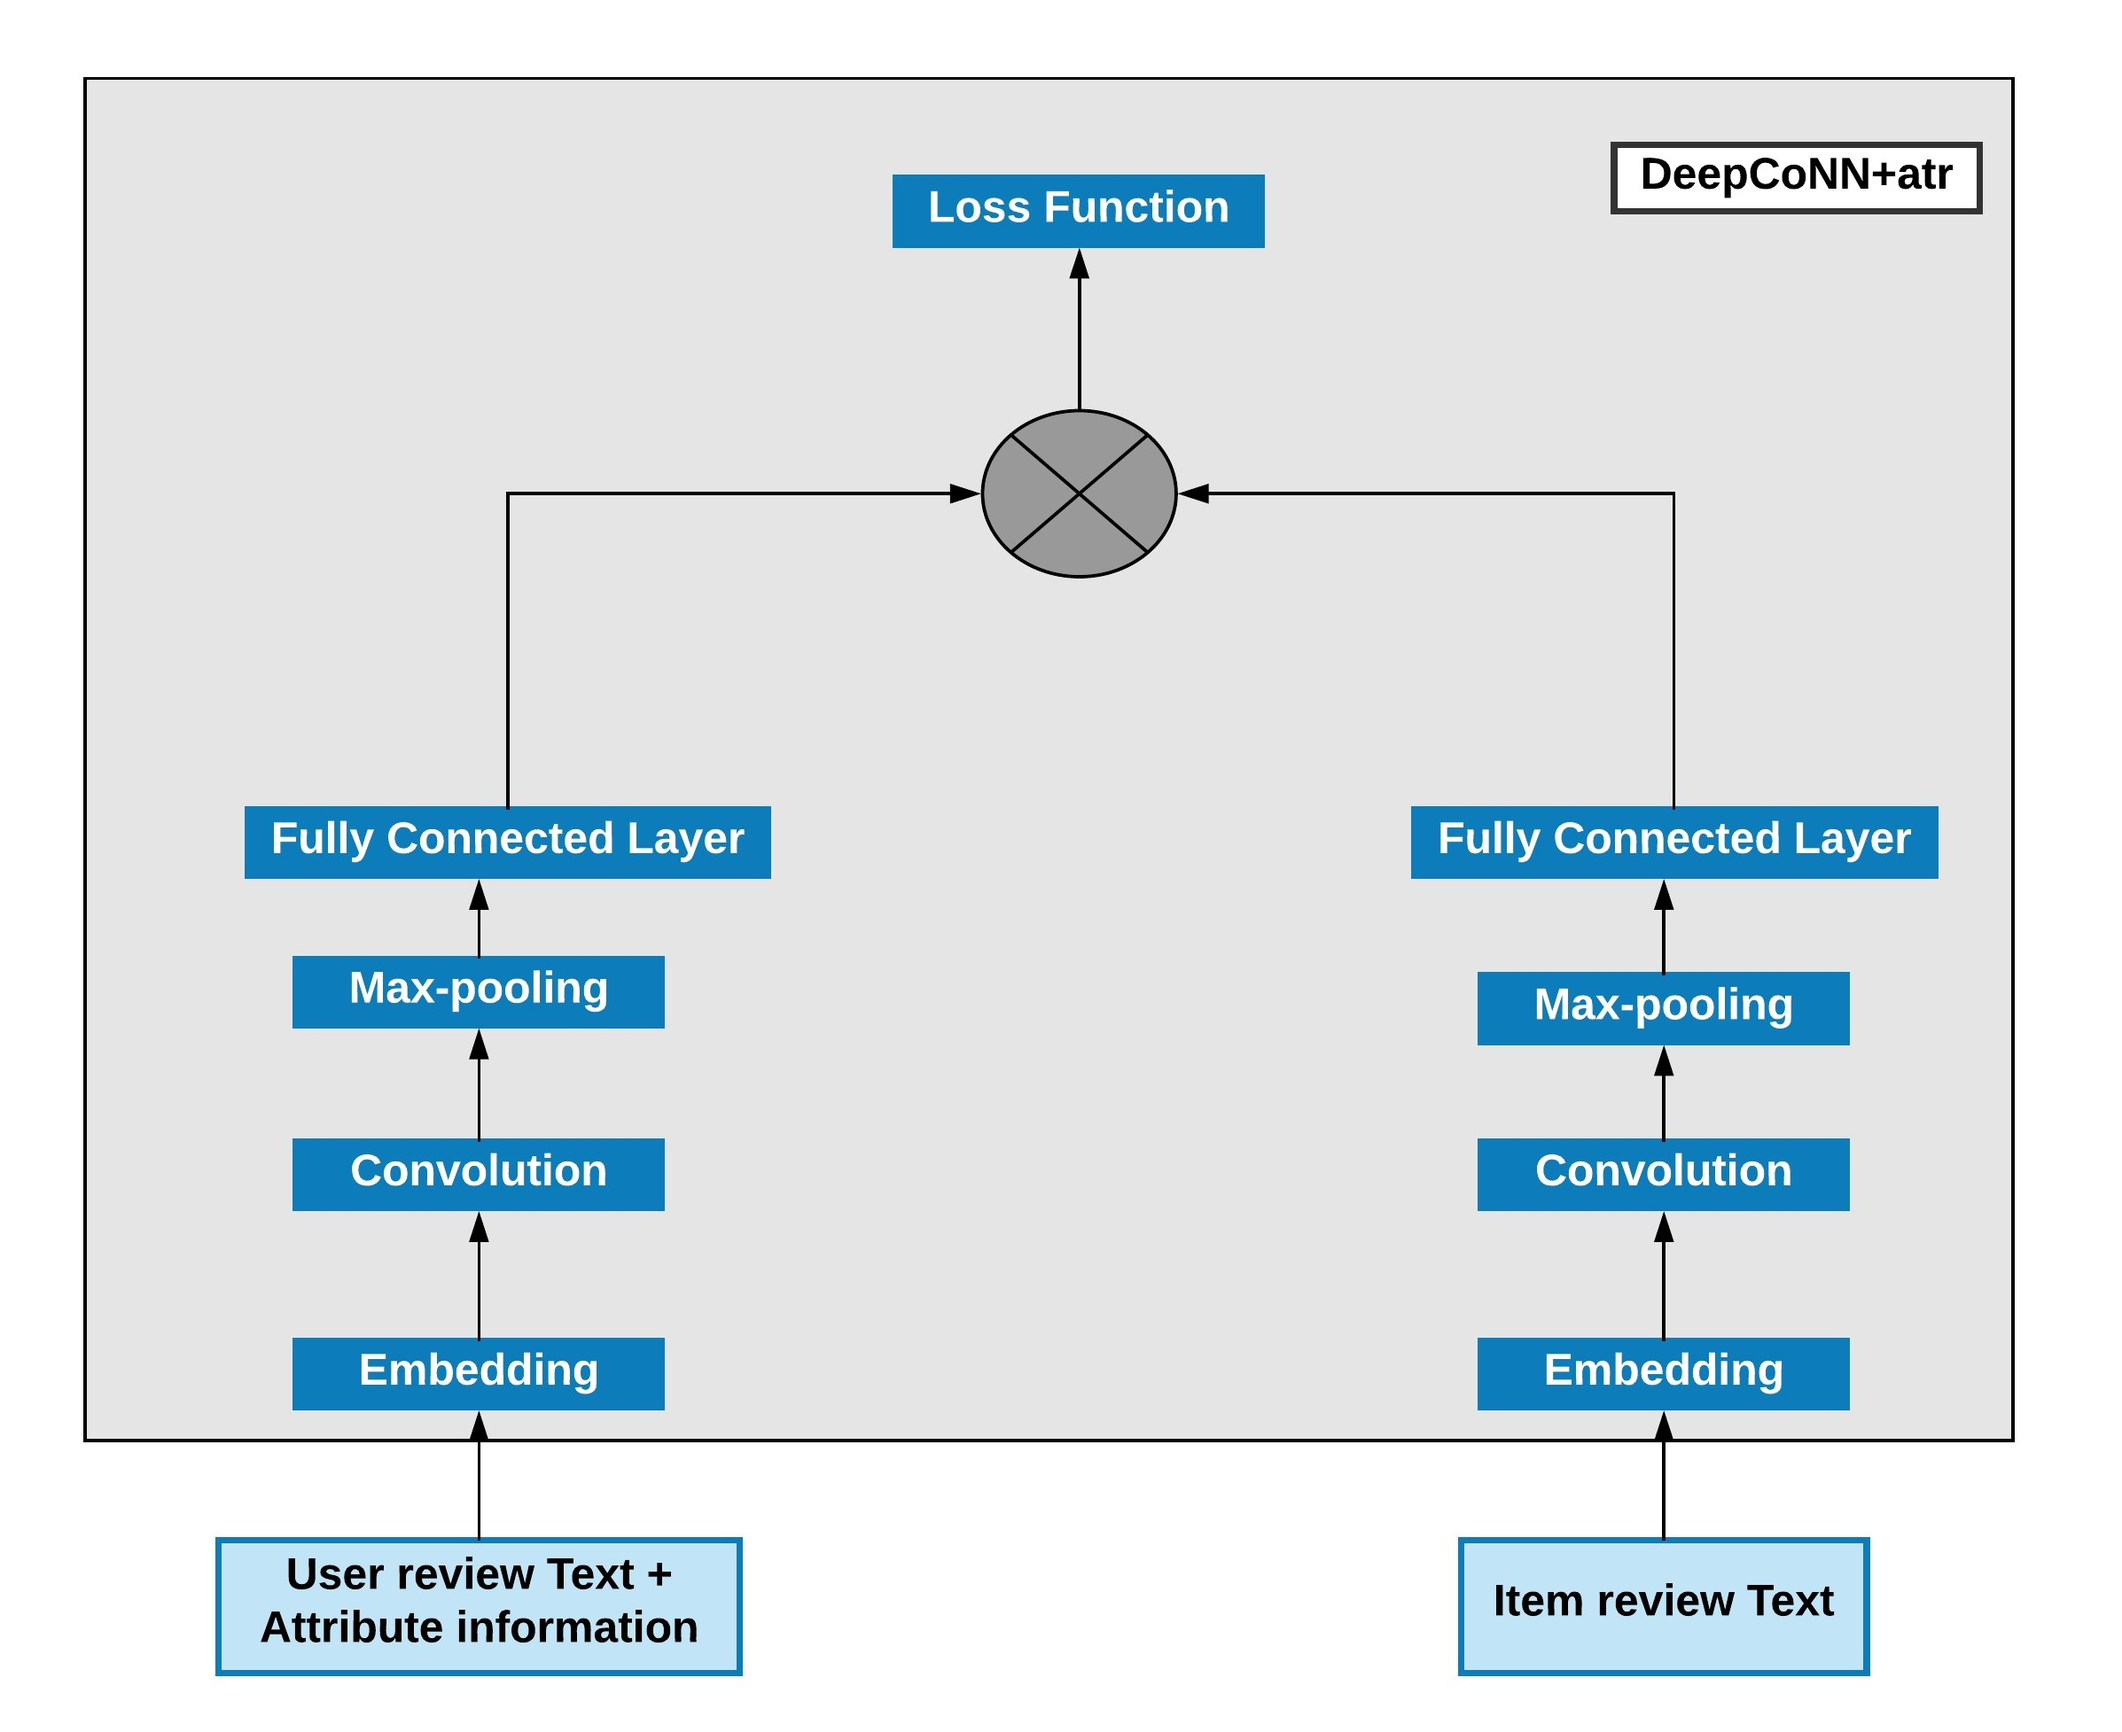
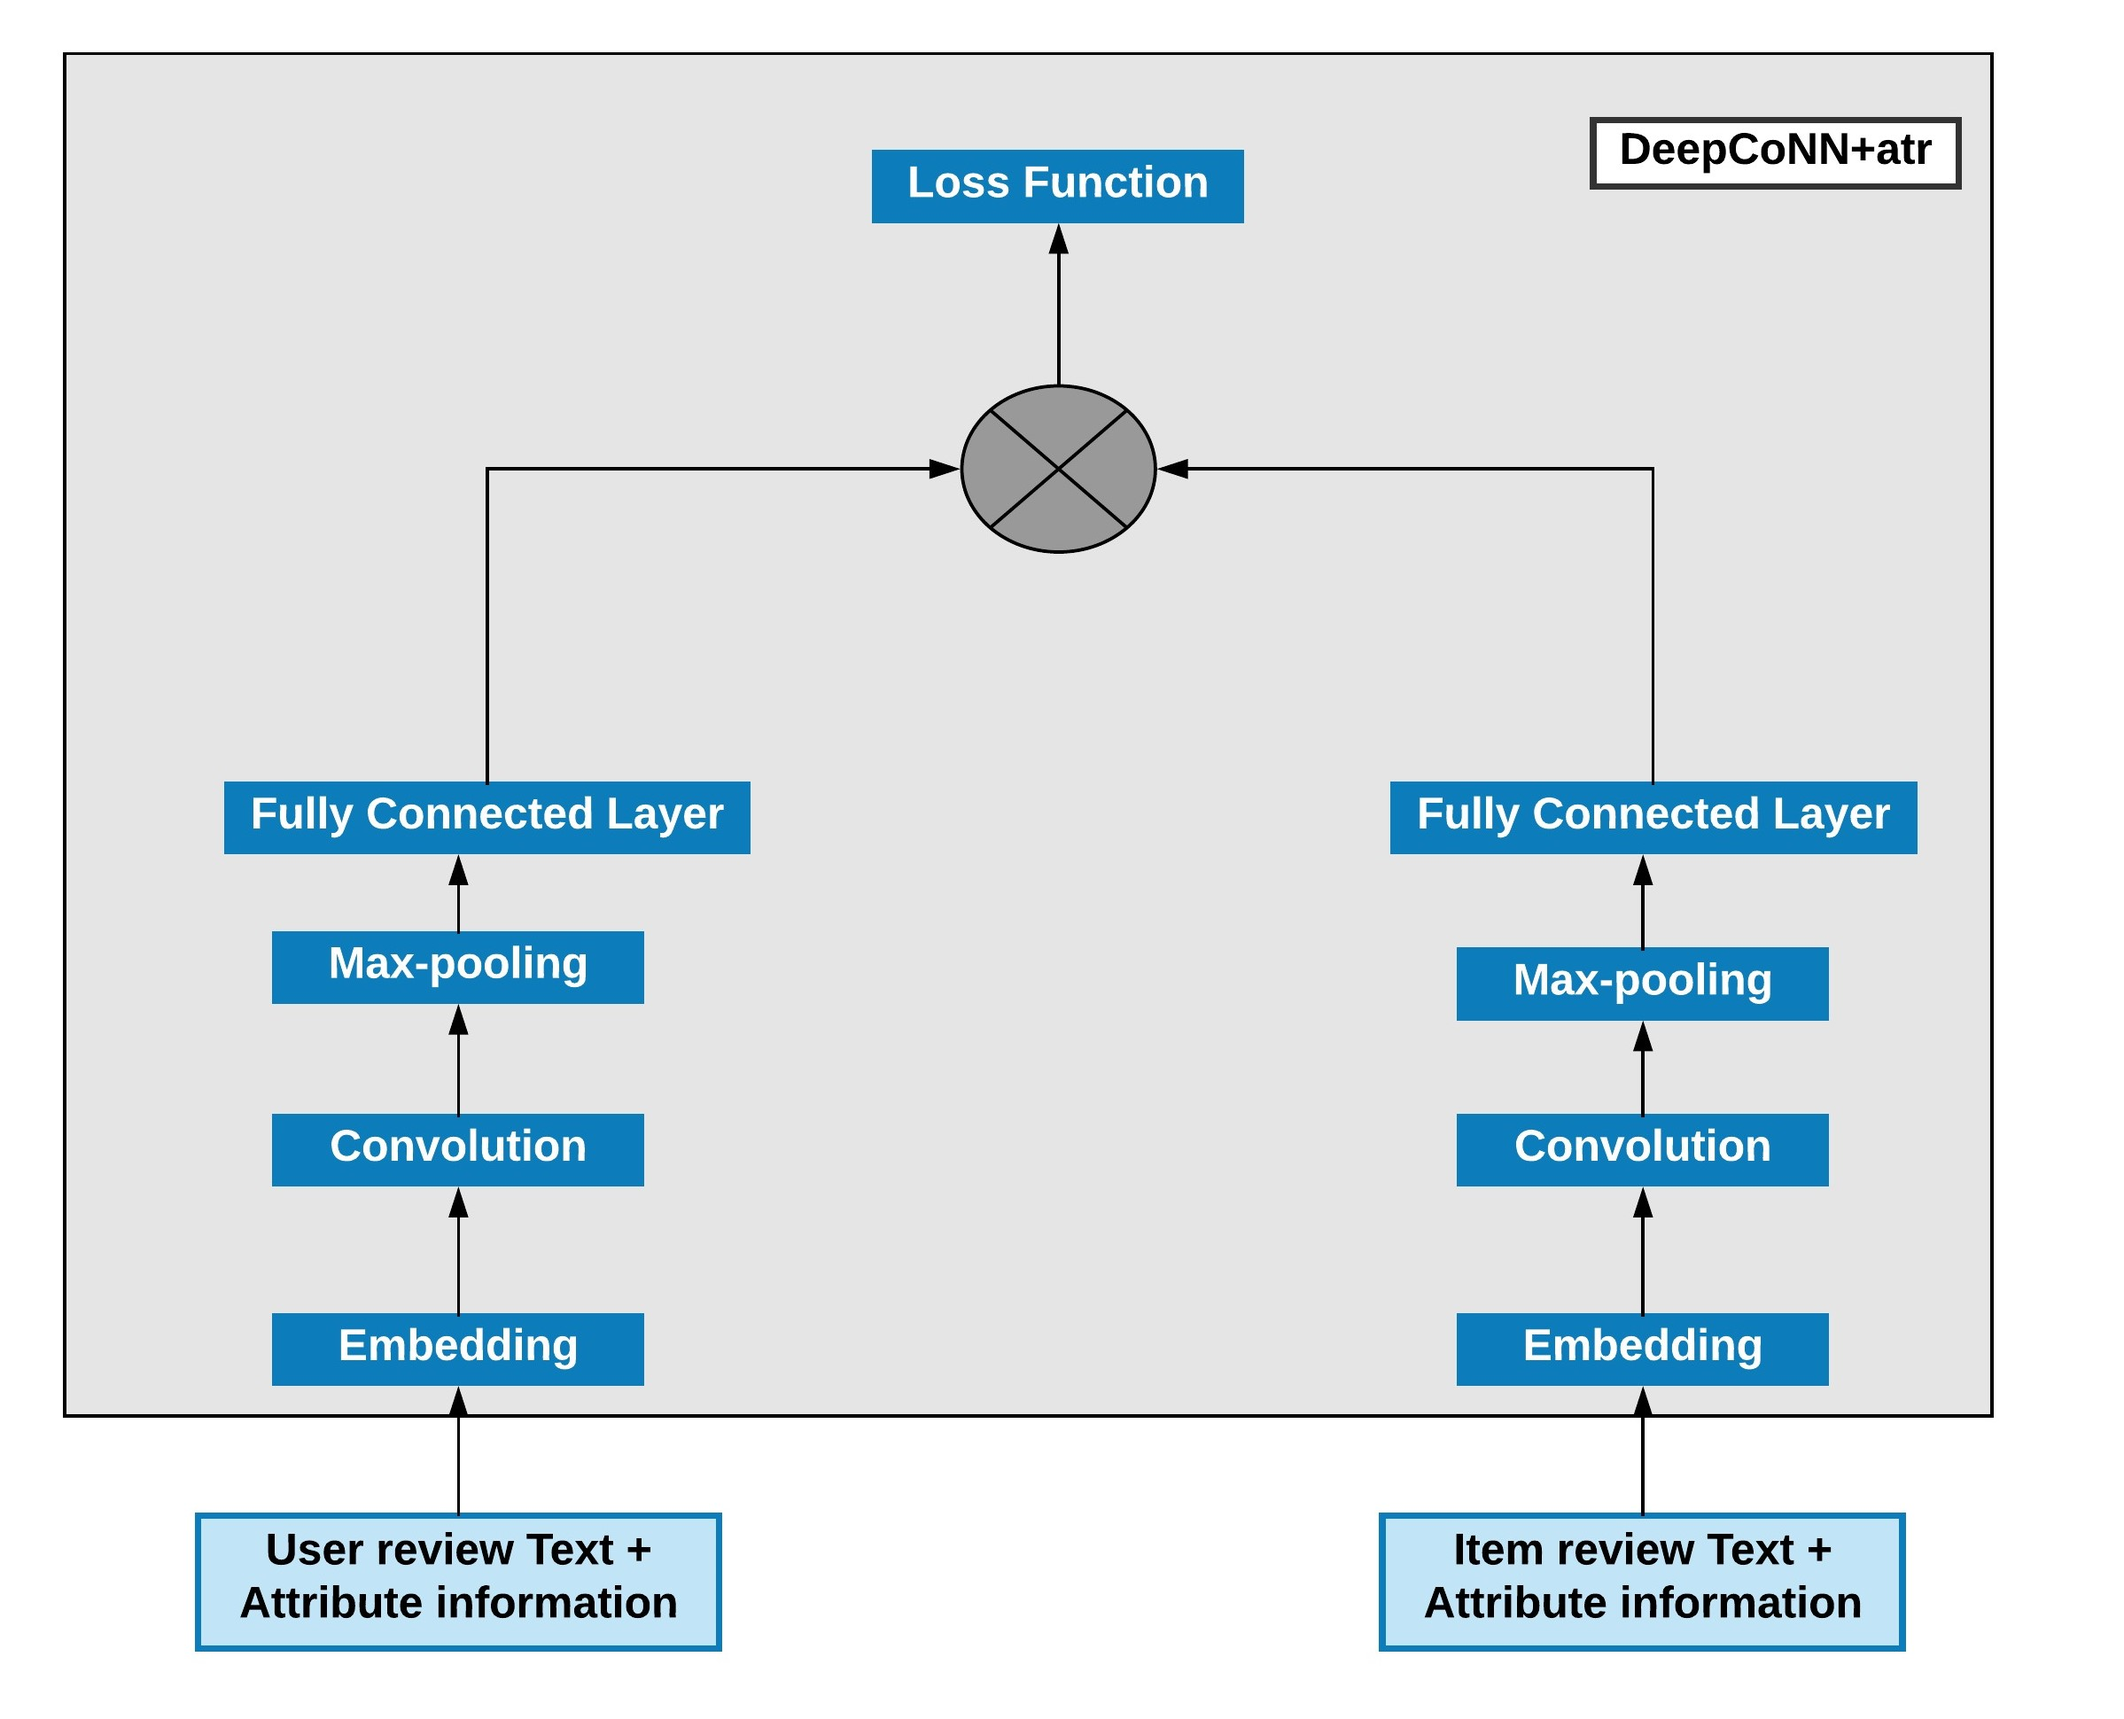
FInal Changes to Website

Changed region(s): [[0.0309, 0.0309, 0.9582, 0.9897], [0.0927, 0.866, 0.3709, 0.9897], [0.7728, 0.2784, 0.8037, 0.3093]]

diff --git a/index.html b/index.html
@@ -63,6 +63,12 @@
           <li class="nav-item">
             <a class="nav-link js-scroll-trigger" href="#network_embeddings" style="text-transform:none" >Network Embeddings</a>
           </li>
+           <li class="nav-item">
+            <a class="nav-link js-scroll-trigger" href="#future_work" style="text-transform:none" >Future Work</a>
+          </li>
+          <li class="nav-item">
+            <a class="nav-link js-scroll-trigger" href="#references" style="text-transform:none" >References</a>
+          </li>
         </ul>
       </div>
     </nav>
@@ -101,15 +107,26 @@
               <p>Many of the world's recommender systems are based on collaborative filtering techniques.<br/>
          	  The basic idea of these techniques is that people who share similar preferences in the past tend to have similar choices in the future.<br/>
          	  But Collaborative Filtering techniques have a sparsity problem in that the number of items rated by users is insignificant to the total number of items.<br/>
-         	  <b> We aim to reduce the sparsity problem and improve the quality of recommendations</b><br/></p>
-         	  <p> We are using Yelp Dataset in this scenario to showcase our methods against methods like matrix factorization as Yelp dataset is very sparse and traditional methods like matrix factorization involves lots of computation when it comes to sparse dataset</p>
+         	   We aim to reduce the sparsity problem and improve the quality of recommendations<br/></p>
+         	  <p> We are using Yelp Dataset in this scenario to showcase our methods against methods like matrix factorization as Yelp dataset is very sparse and traditional methods like matrix factorization involves lots of computation when it comes to sparse dataset
+
+         	  The current techniques in recommender systems use collaborative filtering, content based filtering or hybrid methods on ratings explicitly given by the users to each item. But such systems are not robust to problems due to sparsity in the ratings data.<br/> It has been shown that reviews written by users can reveal some information on the customers’ buying and rating behavior, and also reviews written for items may contain information on their features and properties.<br/> So we believe that a large amount of information exists in reviews written by users. This source of information has been ignored by most of the current recommender systems while it can potentially alleviate the sparsity problem and improve the quality of recommendations.<br/> In Jan 2017, Lei et. al. have proposed a deep model (DeepCoNN) to learn item properties and user behaviors jointly from review text. But we noticed that they have completely neglected other user/item profile specific attribute information. 
+
+
+
+
+
+
+
+
+         	  </p>
             </div>
           </div>
           </div>
           <div class="resume-item d-flex flex-column flex-md-row mb-5">
             <div class="resume-content mr-auto">
              <div class="row">
-              <h3 class="mb-0">HOW ??</h3>
+          
               </div>
               <div class="row">
               <p>Consider the Yelp Dataset<br/></p>
@@ -262,7 +279,49 @@ Lei Zheng, Vahid Noroozi, Philip S. Yu</li>
               			</img>
               		</div>
               	</div>
-              	</div>
+            <ul> 	
+            <div class="row">
+            <li>In this work, we have proposed and evaluated two recommender systems, first, we have used the same DeepCoNN model but appended user and item attributes into the reviews of each user or item to train the model and the second model (RecCoNN) which uses the additional attribute information (user profile specific) and trains two parallel neural networks coupled in the last layers.</li>
+            </div>
+            <div class="row">
+            <li>One of the networks focuses on learning user behaviors exploiting reviews written by the user, considering additional user profile features, and the other network learns item properties from the reviews written for the item.</li>
+            </div>
+
+            <div class="row">
+            <li>The following attributes are used in RecCoNN: Alcohol, OutdoorSeating, RestaurantsDelivery, RestaurantsTakeOut, BusinessParking/Valet and the cuisine data for profiling users. </li>
+            </div>
+
+            <div class="row">
+            <li> Later, a shared layer is introduced on the top to couple these two networks together. The shared layer enables latent factors learned for users and items to interact with each other to map them to a common feature space.</li>
+            </div>
+
+            <div class="row">
+            <li>Similar to MF techniques, user and item latent factors can effectively interact with each other to predict the corresponding rating. Experimental results demonstrate that RecCoNN outperforms our baseline system DeepCoNN on Yelp dataset.</li>
+            </div>
+
+            <div class="row">
+            <li>We used Word2vec pretrained on GoogleNews(300 d) and also Glove embeddings(100 d). Furthermore, we found that word embedding could be helpful to capture semantic meaning of review text by comparing it with a variant of RecCoNN bag-of-words or TF-IDF representations for reviews. </li>
+            </div>
+
+            <div class="row">
+            <li> At last, we conducted experiments by sampling the Yelp data with respect to the US states and investigated the impact of the number of reviews. We have used sampling because of the lack of computational resources.</li>
+            </div>
+
+            <div class="row">
+            <h3 class="mb-5">Discussions</h3>
+            </div>
+
+            <div class="row">
+            <li>Experimental results showed that, RecCoNN obtains more reduction in MSE than DeepCoNN.</li>
+            </div>
+
+            <div class="row">
+            <li>It validates that RecCoNN can effectively alleviate the sparsity problem and also outperform DeepCoNN with the help of additional Attribute information.</li>
+            </div>
+            <div class="row">
+            <li>Each US state data trained separately provides 30% improvement in RMSE compared to full data. This proves the impact of localization of the review data and we plan to incorporate location of the restaurants in our training.</li>
+            </div>
+     		</div>
           </div>
       </section>
 
@@ -272,16 +331,72 @@ Lei Zheng, Vahid Noroozi, Philip S. Yu</li>
           <div class="row"><h2 class="mb-5">Results</h2></div>
           <div class="table-responsive">          
   			   <table class="table">
+  			   <caption><center><b>Mean Absolute Error (MAE)</b></center></caption>
   			   <thead>
   			   <tr>
   			   <th>#</th>
-  			   <th>DeepConn</th>
+  			   <th>Baseline(DeepConn)</th>
   			   <th>DeepConn+attr</th>
   			   <th>RecCoNN</th>
   			   </tr>
   			   </thead>
+  			   <tr>
+  			   <td>Arizona</td>
+  			   <td><b>0.9374</b></td>
+  			   <td>0.9917</td>
+  			   <td>0.9502</td>
+  			   </tr>
+  			   <tr>
+  			   <td>North Carolina</td>
+  			   <td>0.8495</td>
+  			   <td>0.8706</td>
+  			   <td><b>0.8475</b></td>
+  			   </tr>
+  			   <tr>
+  			   <td>Pennsylvania</td>
+  			   <td>0.8252</td>
+  			   <td>0.8263</td>
+  			   <td><b>0.8232</b></td>
+  			   </tr>
+  			   
   			   </table>
-  		  </div>		   
+  		  </div>		 
+
+
+  		  <div class="table-responsive">          
+  			   <table class="table">
+  			   <caption><center><b>Root Mean Square Error (RMSE)</b></center></caption>
+  			   <thead>
+  			   <tr>
+  			   <th>#</th>
+  			   <th>Baseline(DeepConn)</th>
+  			   <th>DeepConn+attr</th>
+  			   <th>RecCoNN</th>
+  			   </tr>
+  			   </thead>
+  			   <tr>
+  			   <td>Arizona</td>
+  			   <td>1.1831</td>
+  			   <td>1.204</td>
+  			   <td><b>1.181</b></td>
+  			   </tr>
+  			   <tr>
+  			   <td>North Carolina</td>
+  			   <td><b>1.0872</b></td>
+  			   <td>1.12</td>
+  			   <td>1.0929</td>
+  			   </tr>
+  			   <tr>
+  			   <td>Pennsylvania</td>
+  			   <td>1.0625</td>
+  			   <td>1.0578</td>
+  			   <td><b>1.0502</b></td>
+  			   </tr>
+  			   
+  			   </table>
+  		  </div>
+
+
         </div>
         </div>
       </section>
@@ -427,17 +542,80 @@ Based on visualizations we observed that Yelp essentially has two classes of use
               		</div>
               	</div>
 
-              	<div class="row">
-              		<h2 class="mb-5">Future Work</h2>
-              	</div>
-              	<div class="row">
-              	<p>To embed HINs, we would like to use a random walk strategy to generate meaningful node sequences for network embedding. We characterize nodes from HINs with low-dimensional vectors, i.e., embeddings. Instead of relying on explicit path connection, we would like to encode useful information from HINs with latent vectors. The learned node embeddings are first transformed by a set of fusion functions and once we obtain the representations for user u and item i, we would like to integrate them to our RecCoNN model.</p>
-              	</div>
-
+              	
              </div>
           </div>
       </section>
     </div>
+
+<section class="resume-section p-3 p-lg-5 d-flex flex-column" id="future_work">
+        <div class="my-auto">
+        	<div class="container-fluid">
+    			<div class="row">
+              		<h2 class="mb-5">Future Work</h2>
+    			</div>
+              	<div class="row">
+              		<p>To embed HINs, we would like to use a random walk strategy to generate meaningful node sequences for network embedding. We characterize nodes from HINs with low-dimensional vectors, i.e., embeddings. Instead of relying on explicit path connection, we would like to encode useful information from HINs with latent vectors. The learned node embeddings are first transformed by a set of fusion functions and once we obtain the representations for user u and item i, we would like to integrate them to our RecCoNN model.</p>
+              	</div>
+            </div>
+        </div>
+    </section>
+
+
+<section class="resume-section p-3 p-lg-5 d-flex flex-column" id="references">
+        <div class="my-auto">
+        	<div class="container-fluid">
+    			<div class="row">
+              		<h2 class="mb-5">References</h2>
+    			</div>
+    			<ul>
+              	<div class="row">
+              		<li>L. Zheng, V. Noroozi, and P. S. Yu. Joint deep modeling of
+users and items using reviews for recommendation. CoRR,
+abs/1701.04783, 2017.</li>
+              	</div>
+              	<div class="row">
+              	<li>
+              	Chuan Shi, Member, IEEE, Binbin Hu, Wayne Xin Zhao Member, IEEE
+and Philip S. Yu, Fellow, IEEE
+Heterogeneous Information Network Embedding for Recommendation 
+              	</li>
+              	</div>
+              	<div class="row">
+              		<li> H. Wang, Y. Lu, and C. Zhai. Latent aspect rating analysis
+on review text data: A rating regression approach. In Proceedings
+of the 16th ACM SIGKDD International Conference
+on Knowledge Discovery and Data Mining, KDD ’10, pages
+783–792, New York, NY, USA, 2010. ACM</li>
+              	</div>
+              	<div class="row">
+              		<li>C. Zhang, L. Yu, Y. Wang, C. Shah, and X. Zhang. Collaborative
+User Network Embedding for Social Recommender Systems,
+pages 381–389.</li>
+              	</div>
+              	<div class="row">
+              		<li>J. McAuley and J. Leskovec. Hidden factors and hidden topics:
+Understanding rating dimensions with review text. In
+Proceedings of the 7th ACM Conference on Recommender
+Systems, RecSys ’13, pages 165–172, New York, NY, USA,
+2013. ACM.</li>
+              	</div>
+              	<div class="row">
+              		<li> G. Ling, M. R. Lyu, and I. King. Ratings meet reviews, a
+combined approach to recommend. In RecSys, 2014.</li>
+              	</div>
+              	<div class="row">
+              		<li>Y. Koren, R. Bell, and C. Volinsky. Matrix factorization techniques
+for recommender systems. Computer, 42(8):30–37,
+Aug. 2009.</li>
+              	</div>
+              	</ul>
+            </div>
+        </div>
+    </section>
+
+
+
 
     <!-- Bootstrap core JavaScript -->
     <script src="vendor/jquery/jquery.min.js"></script>
